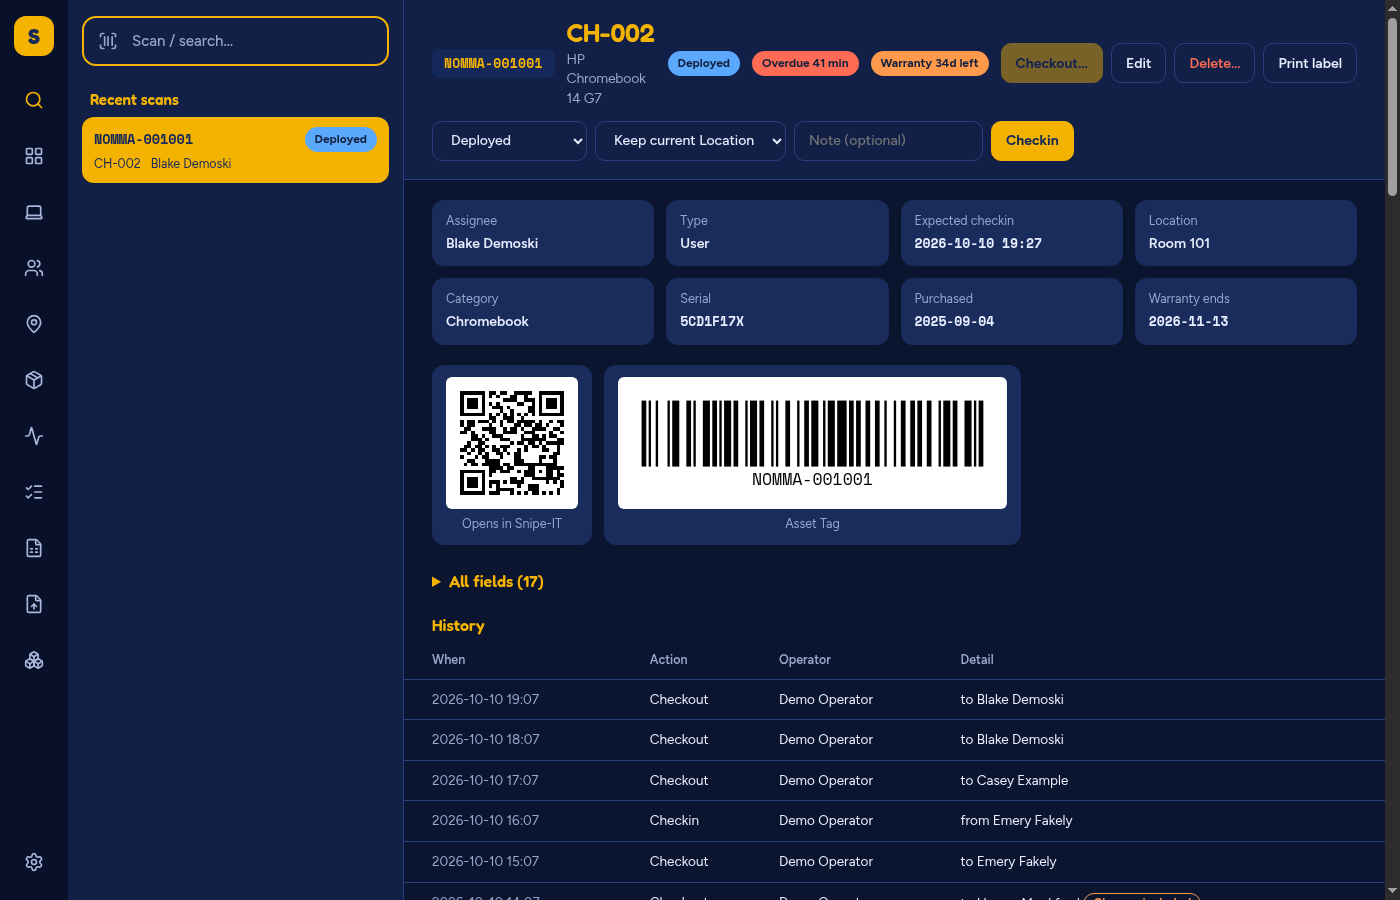
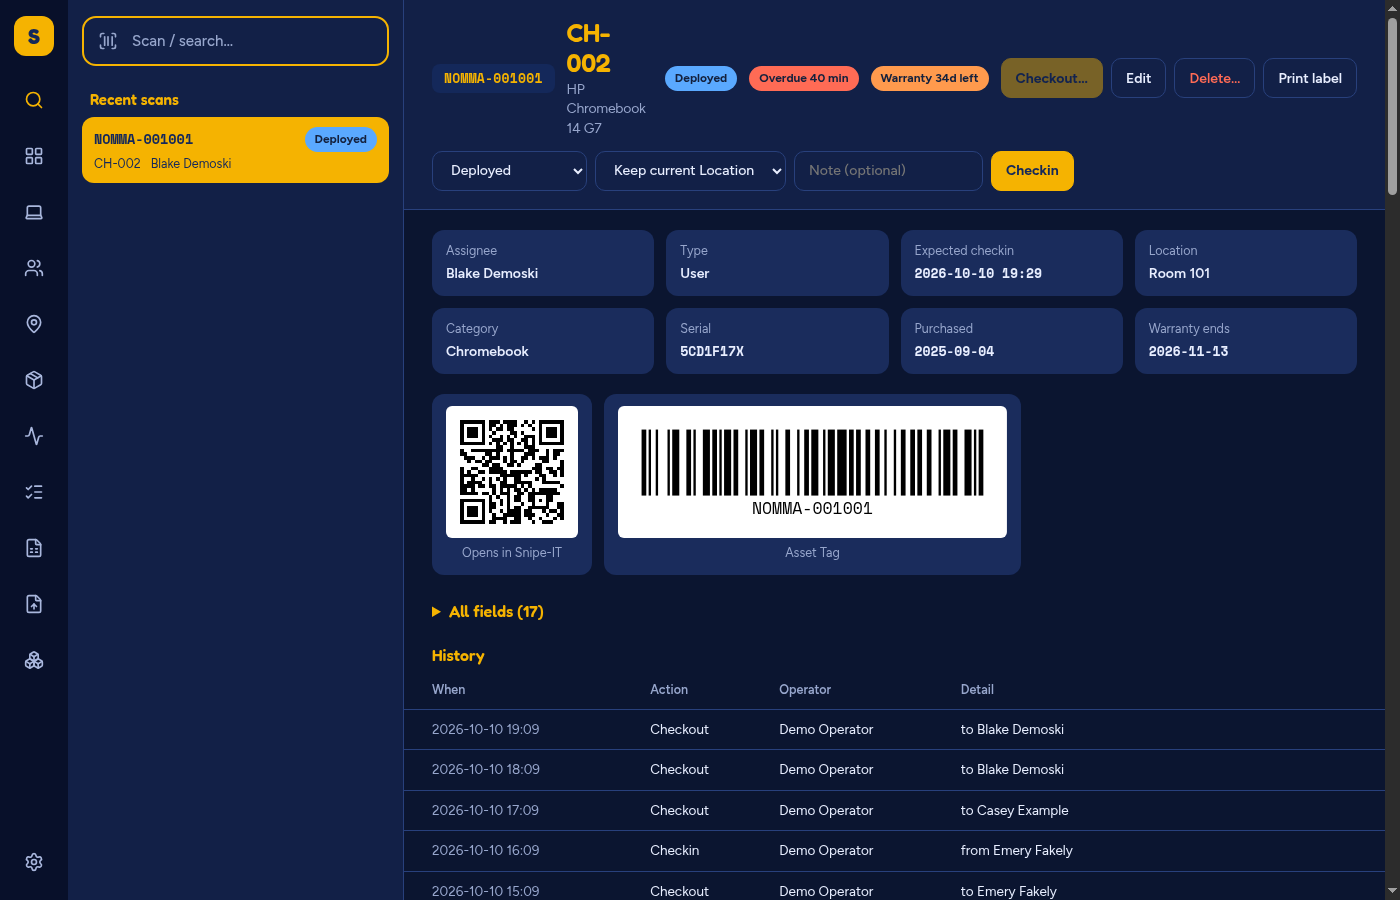
Overdue only once the due time has passed, and minutes count down not up
Review: an Asset was Overdue at the exact due moment, and 40 min 14 s read
"41 min" while hours rounded down. Minutes now round down too, with a
started minute counting as 1, and a date-only Expected Checkin passes at the
last moment of its date. Screenshots retaken.

diff --git a/src/main/snipeit.ts b/src/main/snipeit.ts
@@ -394,13 +394,14 @@ function expectedCheckinOf(v: RawAsset['expected_checkin']): string | null {
   return time && time !== '00:00' ? `${when.slice(0, 10)} ${time}` : when.slice(0, 10)
 }
 
-// How late an Expected Checkin is, or null when it isn't yet: from its time of day when it has one, else from the end of its date.
+// How late an Expected Checkin is, or null until it has passed: its time of day when it has one, else the last moment of its date.
+// A started minute counts as 1, so an Asset just past due reads "1 min", never "0 min".
 function overdueOf(now: Date, due: string): Lateness | null {
   const [y, mo, d, h, mi] = due.split(/[- :]/).map(Number)
-  const from = due.length > 10 ? new Date(y, mo - 1, d, h, mi) : new Date(y, mo - 1, d + 1)
-  const ms = now.getTime() - from.getTime()
-  if (ms < 0) return null
-  return { days: -daysFrom(now, due.slice(0, 10)) || 0, minutes: Math.ceil(ms / 6e4) } // || 0: not -0
+  const at = due.length > 10 ? new Date(y, mo - 1, d, h, mi) : new Date(y, mo - 1, d + 1, 0, 0, 0, -1)
+  const ms = now.getTime() - at.getTime()
+  if (ms <= 0) return null
+  return { days: -daysFrom(now, due.slice(0, 10)) || 0, minutes: Math.max(1, Math.floor(ms / 6e4)) } // || 0: not -0
 }
 
 function toAsset(raw: RawAsset, today: Date): Asset {

diff --git a/src/main/snipeit.test.ts b/src/main/snipeit.test.ts
@@ -330,7 +330,7 @@ describe('Overdue (today is 2026-09-24)', () => {
 
   it('an Asset whose Expected Checkin was yesterday is Overdue by 1 day', async () => {
     const asset = await snipeItWith(due('2026-09-23 00:00:00')).getAsset(4812)
-    expect(asset.overdue).toEqual({ days: 1, minutes: 0 })
+    expect(asset.overdue).toEqual({ days: 1, minutes: 1 })
   })
 
   it('an Asset due back today is not Overdue', async () => {
@@ -341,6 +341,7 @@ describe('Overdue (today is 2026-09-24)', () => {
   it('an Asset due today at 14:50 is not Overdue at 14:49, and is Overdue 1 min at 14:51', async () => {
     const before = await atTime(due('2026-09-24 14:50:00'), 14, 49).getAsset(4812)
     expect(before).toMatchObject({ expectedCheckin: '2026-09-24 14:50', overdue: null })
+    expect((await atTime(due('2026-09-24 14:50:00'), 14, 50).getAsset(4812)).overdue).toBeNull()
     const after = await atTime(due('2026-09-24 14:50:00'), 14, 51).getAsset(4812)
     expect(after.overdue).toEqual({ days: 0, minutes: 1 })
     expect(lateness(after.overdue!)).toBe('1 min')
